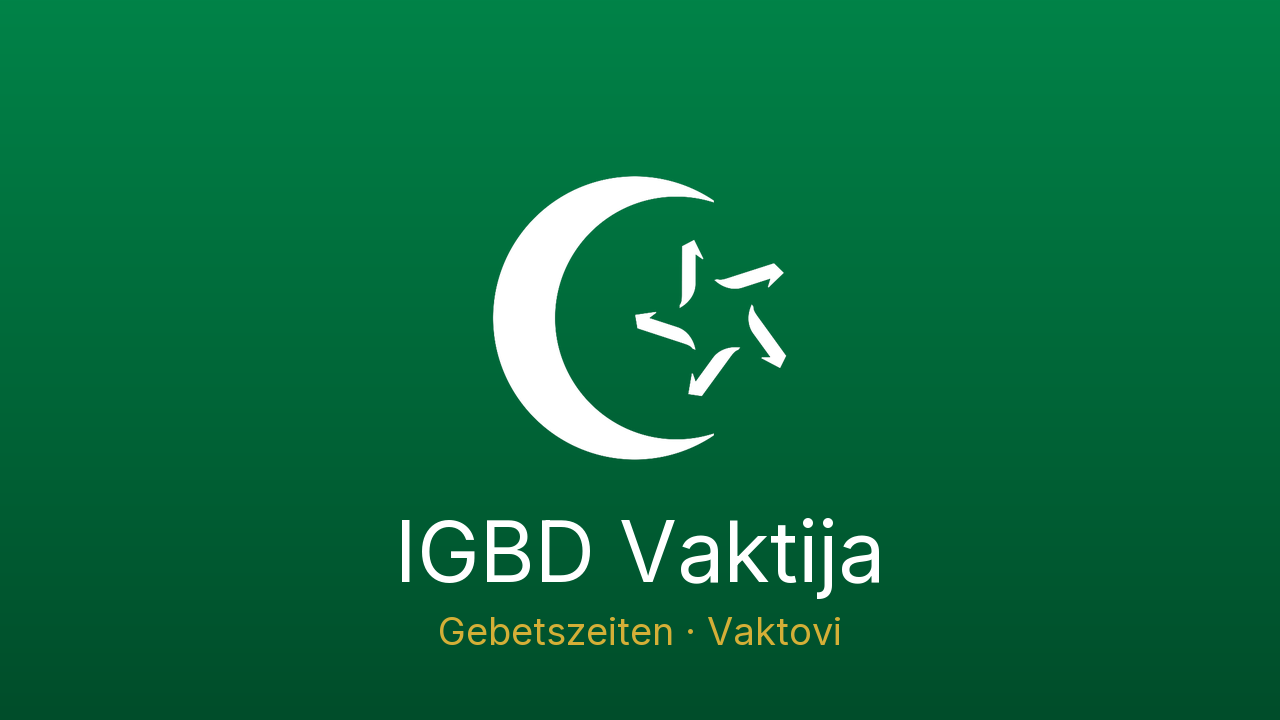
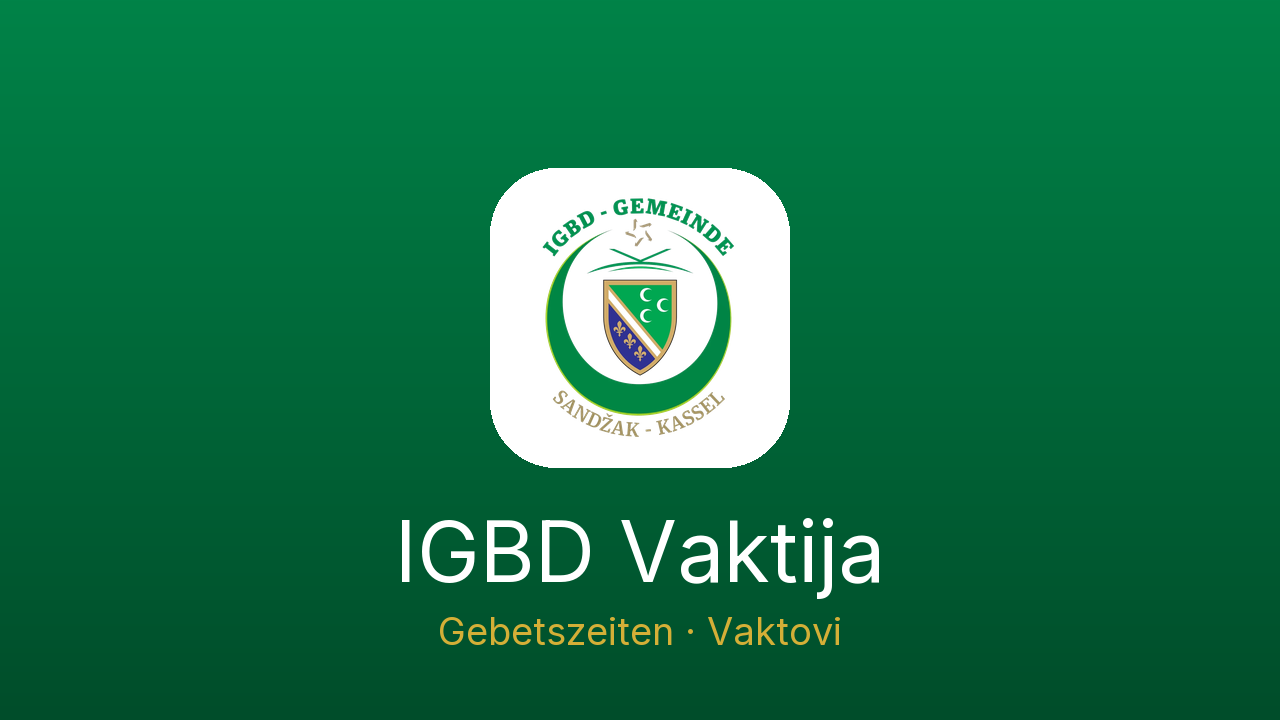
Play-Ablehnung: das eigene Wappen statt des Verbandszeichens
Google Play hat das Update am 7. September 2026 wegen der Regel zu
Identitaetsdiebstahl abgelehnt und dabei genau zwei Dateien benannt: die
Feature-Grafik und das Hi-Res-Symbol. Beide trugen das Zeichen der Islamischen
Gemeinschaft. Der Vorstand hatte drei Tage zuvor bereits klargestellt, dass eine
Erlaubnis des Verbands nie vorlag -- Google hat es unabhaengig davon selbst
gefunden.

DER EINSPRUCH WAR KEIN WEG

Google nimmt als Nachweis ausschliesslich einen von BEIDEN Seiten
unterschriebenen Vertrag, eine Vollmacht oder eine Lizenz. E-Mails und
Screenshots sind im Schreiben ausdruecklich als nicht ausreichend genannt. Ohne
Papier gab es nichts einzureichen.

WAS GEAENDERT IST

Launcher-Symbol, 512er Store-Symbol, Feature-Grafik und TV-Banner tragen jetzt
das Wappen der IGBD-Gemeinde Sandzak-Kassel e. V. Das ist kein Notbehelf: es ist
das eigene Zeichen des Vereins, es nennt ihn korrekt, und Play hat es bis zur
Umstellung im August monatelang getragen. Die Symbol-Dateien sind exakt die aus
7788ede wiederhergestellt -- also der Stand, den Google bereits akzeptiert hatte,
statt eines neuen Entwurfs, der wieder auffallen koennte.

DER NAME BLEIBT

"IGBD Vaktija", Entscheidung des Besitzers: Sandzak-Kassel ist Mitgliedsgemeinde
der IGBD, und Google hat das ZEICHEN beanstandet, nicht den Namen. Das Risiko
wurde benannt, die Entscheidung ist bewusst getroffen.

DER ZWEITE PUNKT LOEST SICH MIT

"App muss auf Android 16 (API 36) ausgerichtet sein" betrifft die
[…]

Changed region(s): [[0.375, 0.2139, 0.625, 0.6722]]

diff --git a/tools/make_store_graphics.py b/tools/make_store_graphics.py
@@ -5,6 +5,21 @@ Both had the OLD name on them ("Kassel Vaktija"), so both have to be remade for 
 are generated rather than drawn by hand for the same reason the launcher icon is: the mark is
 governed by a standards book, and a hand-placed mark drifts.
 
+WHY THE COMMUNITY'S OWN CREST AND NOT THE FEDERATION MARK
+---------------------------------------------------------
+Google Play REJECTED the update on 7 September 2026 under the impersonation policy, naming exactly
+these two files: the feature graphic and the hi-res icon. Both carried the Islamic Community's
+mark, and the board has confirmed no permission from the federation was ever obtained. The appeal
+route needs a licence or authorisation SIGNED BY BOTH PARTIES -- e-mails and screenshots are
+explicitly listed as insufficient -- so there was nothing to appeal with.
+
+The crest of IGBD-Gemeinde Sandzak-Kassel e. V. is the association's OWN, it names them correctly,
+and Google carried it for months before the August rebrand. Going back to it is not a compromise;
+it is the honest mark for an app this association publishes.
+
+The NAME stays "IGBD Vaktija" by the owner's decision: Sandzak-Kassel is an IGBD member community,
+and Google objected to the mark, not to the name.
+
 Rules from the standards book that this script obeys (docs/marke/README.md):
 
   - The mark is never recoloured. On a green ground the book's own NEGATIVE version is used --
@@ -27,7 +42,7 @@ ROOT = os.path.dirname(HERE)
 RES = os.path.join(ROOT, "app", "src", "main", "res")
 OUT = os.path.join(ROOT, "docs", "play")
 
-MARK_NEGATIVE = os.path.join(RES, "drawable-nodpi", "logo_igbd_negative.png")
+CREST = os.path.join(RES, "drawable-nodpi", "logo_emblem.png")
 FONT = os.path.join(RES, "font", "inter_variable.ttf")
 
 # IZ zelena and the app's gold. The green is the protected brand colour; the gold is the app's own
@@ -58,12 +73,27 @@ SUBTITLE = u"Gebetszeiten · Vaktovi"
 
 
 def draw_panel(size, mark_box):
-    """Green panel with the white mark on it. The wording is added by each caller."""
+    """Green panel carrying the community crest. The wording is added by each caller.
+
+    The crest sits on a white rounded tile rather than straight on the green: its own outer ring is
+    green too, and without the tile the emblem loses its edge and reads as a smudge.
+    """
     img = vertical_gradient(size, GREEN, GREEN_DEEP)
-    mark = Image.open(MARK_NEGATIVE).convert("RGBA")
-    side = mark_box[2]
-    mark = mark.resize((side, side), Image.LANCZOS)
-    img.paste(mark, (mark_box[0], mark_box[1]), mark)
+    x, y, side = mark_box
+
+    tile = Image.new("RGBA", (side, side), (0, 0, 0, 0))
+    ImageDraw.Draw(tile).rounded_rectangle([0, 0, side - 1, side - 1],
+                                           radius=int(side * 0.22), fill=WHITE + (255,))
+    img.paste(tile, (x, y), tile)
+
+    crest = Image.open(CREST).convert("RGBA")
+    inner = int(side * 0.84)
+    scale = min(inner / float(crest.width), inner / float(crest.height))
+    crest = crest.resize((max(1, int(crest.width * scale)), max(1, int(crest.height * scale))),
+                         Image.LANCZOS)
+    img.paste(crest,
+              (x + (side - crest.width) // 2, y + (side - crest.height) // 2),
+              crest)
     return img
 
 

diff --git a/docs/play/STORE-EINTRAG.md b/docs/play/STORE-EINTRAG.md
@@ -189,7 +189,7 @@ eigener Trefferbereich in der Play-Suche, kostet aber nichts als die Übersetzun
 
 ---
 
-## 6 · Versionshinweise („Was ist neu") für 1.2.5
+## 6 · Versionshinweise („Was ist neu") für 1.2.6
 
 Grenze: 500 Zeichen je Sprache. Geprüft: Deutsch 499, Bosnisch 438.
 
